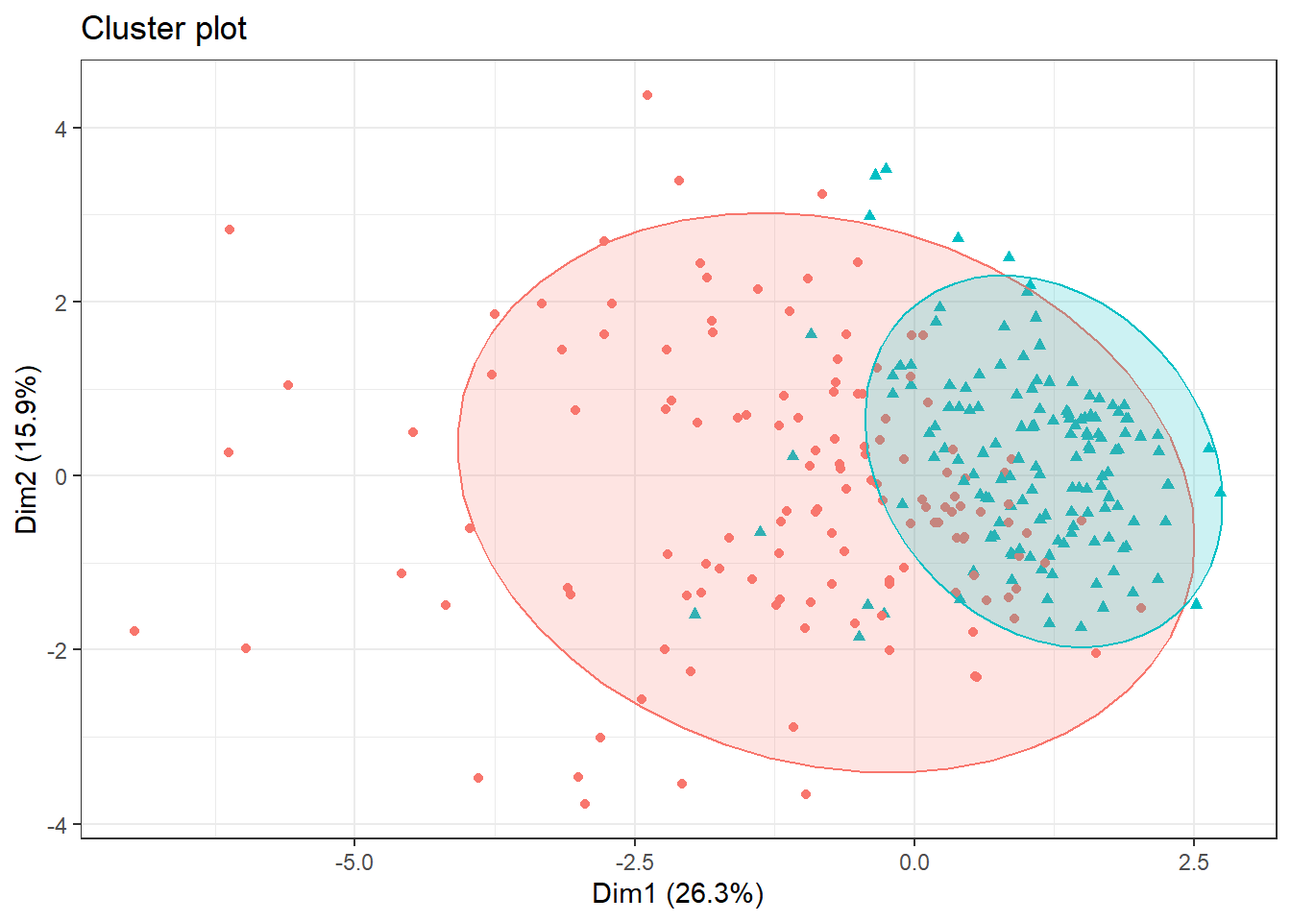
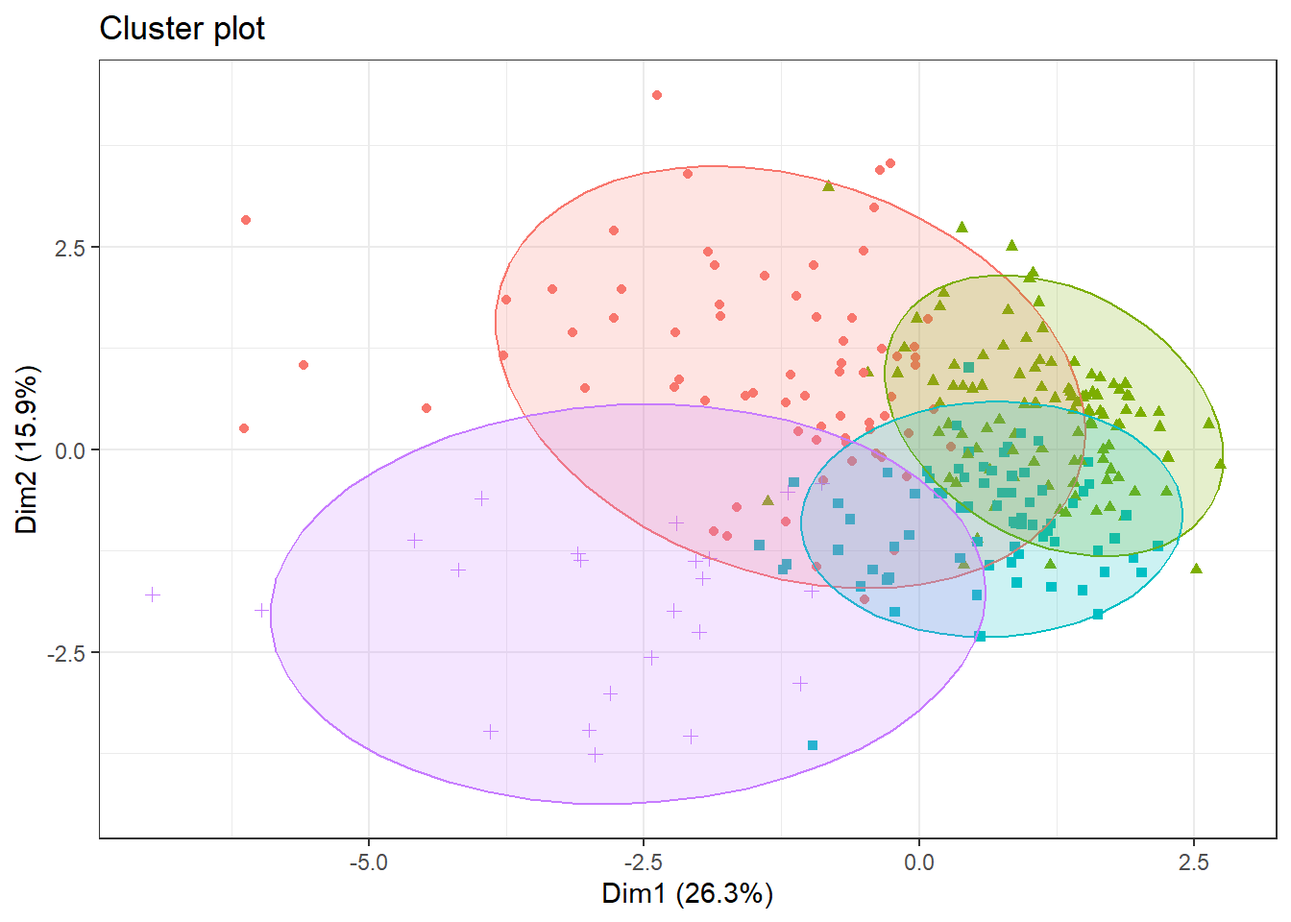
dendogramas 2

diff --git a/Entrega_Clustering.html b/Entrega_Clustering.html
@@ -451,24 +451,14 @@ W = 0.83366, p-value &lt; 2.2e-16</code></pre>
 <div class="cell">
 <div class="sourceCode cell-code" id="cb19"><pre class="sourceCode r code-with-copy"><code class="sourceCode r"><span id="cb19-1"><a href="#cb19-1" aria-hidden="true" tabindex="-1"></a><span class="co">#set.seed(2312)</span></span>
 <span id="cb19-2"><a href="#cb19-2" aria-hidden="true" tabindex="-1"></a>km_clusters <span class="ot">&lt;-</span> <span class="fu">kmeans</span>(<span class="at">x =</span> cX, <span class="at">centers =</span> <span class="dv">4</span>, <span class="at">nstart =</span> <span class="dv">30</span>)</span>
-<span id="cb19-3"><a href="#cb19-3" aria-hidden="true" tabindex="-1"></a>km_clusters<span class="sc">$</span>cluster</span></code><button title="Copy to Clipboard" class="code-copy-button"><i class="bi"></i></button></pre></div>
-<div class="cell-output cell-output-stdout">
-<pre><code>  [1] 3 2 3 3 4 4 4 4 3 4 3 4 2 4 3 1 4 3 4 3 1 2 4 1 1 1 2 3 2 2 3 4 2 4 3 4 2
- [38] 2 4 2 4 2 4 4 2 2 2 2 2 2 4 4 3 1 3 4 4 4 4 1 4 4 4 1 1 1 3 3 4 3 1 4 3 4
- [75] 4 1 4 4 4 4 3 3 4 3 3 4 4 3 4 4 3 4 4 3 4 4 4 4 3 3 4 4 4 1 4 4 1 3 4 4 4
-[112] 4 1 3 4 4 4 4 4 4 1 3 4 4 4 4 1 4 3 1 3 4 3 4 3 4 1 4 4 4 4 4 3 4 3 1 4 4
-[149] 4 4 4 4 4 4 4 4 4 1 4 3 1 3 4 1 4 1 4 4 3 4 4 4 4 4 4 4 4 4 3 4 4 4 4 4 1
-[186] 1 4 3 4 3 3 4 4 4 3 4 3 4 3 4 3 4 1 4 3 3 4 1 3 3 1 4 4 1 4 4 4 4 3 3 4 4
-[223] 4 4 4 3 3 4 4 3 4 4 3 3 3 4 4 4 4 4 4 4 4 4 4 1 4 4 4 4 4 3 4 3 4 4 4 3 1
-[260] 4 4 3 4 4 4 4 3 4 2 4 4 4 3 3 4 1</code></pre>
-</div>
+<span id="cb19-3"><a href="#cb19-3" aria-hidden="true" tabindex="-1"></a><span class="co"># km_clusters$cluster</span></span></code><button title="Copy to Clipboard" class="code-copy-button"><i class="bi"></i></button></pre></div>
 </div>
 <p>Ahora bien, representemos dichos clusters en el plano. Como nuestro número de variables (dimensionalidad) es mayor de 2, automáticamente realiza un PCA y representa las dos primeras componentes principales (Dim1 y Dim2).</p>
 <div class="cell">
-<div class="sourceCode cell-code" id="cb21"><pre class="sourceCode r code-with-copy"><code class="sourceCode r"><span id="cb21-1"><a href="#cb21-1" aria-hidden="true" tabindex="-1"></a><span class="fu">fviz_cluster</span>(<span class="at">object =</span> km_clusters, <span class="at">data =</span> cX, <span class="at">show.clust.cent =</span> <span class="cn">TRUE</span>, <span class="at">geom =</span><span class="st">"point"</span>,</span>
-<span id="cb21-2"><a href="#cb21-2" aria-hidden="true" tabindex="-1"></a> <span class="at">ellipse.type =</span> <span class="st">"euclid"</span>, <span class="at">star.plot =</span> <span class="cn">TRUE</span>, <span class="at">repel =</span> <span class="cn">TRUE</span>, <span class="at">palette =</span> <span class="fu">c</span>(<span class="st">"#FF7078"</span>, <span class="st">"#F39B4C"</span>, <span class="st">"#7FBFF5"</span>, <span class="st">"#A298E8"</span>)) <span class="sc">+</span></span>
-<span id="cb21-3"><a href="#cb21-3" aria-hidden="true" tabindex="-1"></a><span class="fu">theme_bw</span>() <span class="sc">+</span></span>
-<span id="cb21-4"><a href="#cb21-4" aria-hidden="true" tabindex="-1"></a><span class="fu">theme</span>(<span class="at">legend.position =</span> <span class="st">"none"</span>)</span></code><button title="Copy to Clipboard" class="code-copy-button"><i class="bi"></i></button></pre></div>
+<div class="sourceCode cell-code" id="cb20"><pre class="sourceCode r code-with-copy"><code class="sourceCode r"><span id="cb20-1"><a href="#cb20-1" aria-hidden="true" tabindex="-1"></a><span class="fu">fviz_cluster</span>(<span class="at">object =</span> km_clusters, <span class="at">data =</span> cX, <span class="at">show.clust.cent =</span> <span class="cn">TRUE</span>, <span class="at">geom =</span><span class="st">"point"</span>,</span>
+<span id="cb20-2"><a href="#cb20-2" aria-hidden="true" tabindex="-1"></a> <span class="at">ellipse.type =</span> <span class="st">"euclid"</span>, <span class="at">star.plot =</span> <span class="cn">TRUE</span>, <span class="at">repel =</span> <span class="cn">TRUE</span>, <span class="at">palette =</span> <span class="fu">c</span>(<span class="st">"#FF7078"</span>, <span class="st">"#F39B4C"</span>, <span class="st">"#7FBFF5"</span>, <span class="st">"#A298E8"</span>)) <span class="sc">+</span></span>
+<span id="cb20-3"><a href="#cb20-3" aria-hidden="true" tabindex="-1"></a><span class="fu">theme_bw</span>() <span class="sc">+</span></span>
+<span id="cb20-4"><a href="#cb20-4" aria-hidden="true" tabindex="-1"></a><span class="fu">theme</span>(<span class="at">legend.position =</span> <span class="st">"none"</span>)</span></code><button title="Copy to Clipboard" class="code-copy-button"><i class="bi"></i></button></pre></div>
 <div class="cell-output-display">
 <p><img src="Entrega_Clustering_files/figure-html/unnamed-chunk-20-1.png" class="img-fluid" width="672"></p>
 </div>
@@ -477,13 +467,13 @@ W = 0.83366, p-value &lt; 2.2e-16</code></pre>
 <p>Ahora bien, sería interesante ver si estos clusters corresponden a las fases de cirrosis segun la variable <code>stage</code>.</p>
 <p>Vamos a crear un data frame compuesto de 3 columnas: identificador del paciente, estado de la enfermedad y cluster al que pertenece.</p>
 <div class="cell">
-<div class="sourceCode cell-code" id="cb22"><pre class="sourceCode r code-with-copy"><code class="sourceCode r"><span id="cb22-1"><a href="#cb22-1" aria-hidden="true" tabindex="-1"></a>id_stage <span class="ot">=</span> datos <span class="sc">%&gt;%</span> </span>
-<span id="cb22-2"><a href="#cb22-2" aria-hidden="true" tabindex="-1"></a>  <span class="fu">select</span>(ID, Stage)</span>
-<span id="cb22-3"><a href="#cb22-3" aria-hidden="true" tabindex="-1"></a>Cluster <span class="ot">=</span> km_clusters<span class="sc">$</span>cluster <span class="sc">%&gt;%</span> <span class="fu">as.factor</span>()</span>
-<span id="cb22-4"><a href="#cb22-4" aria-hidden="true" tabindex="-1"></a></span>
-<span id="cb22-5"><a href="#cb22-5" aria-hidden="true" tabindex="-1"></a>tabla_cluster <span class="ot">=</span> <span class="fu">cbind</span>(id_stage, Cluster)</span>
-<span id="cb22-6"><a href="#cb22-6" aria-hidden="true" tabindex="-1"></a></span>
-<span id="cb22-7"><a href="#cb22-7" aria-hidden="true" tabindex="-1"></a><span class="fu">table</span>(<span class="at">x =</span> tabla_cluster[,<span class="fu">c</span>(<span class="dv">2</span>,<span class="dv">3</span>)])</span></code><button title="Copy to Clipboard" class="code-copy-button"><i class="bi"></i></button></pre></div>
+<div class="sourceCode cell-code" id="cb21"><pre class="sourceCode r code-with-copy"><code class="sourceCode r"><span id="cb21-1"><a href="#cb21-1" aria-hidden="true" tabindex="-1"></a>id_stage <span class="ot">=</span> datos <span class="sc">%&gt;%</span> </span>
+<span id="cb21-2"><a href="#cb21-2" aria-hidden="true" tabindex="-1"></a>  <span class="fu">select</span>(ID, Stage)</span>
+<span id="cb21-3"><a href="#cb21-3" aria-hidden="true" tabindex="-1"></a>Cluster <span class="ot">=</span> km_clusters<span class="sc">$</span>cluster <span class="sc">%&gt;%</span> <span class="fu">as.factor</span>()</span>
+<span id="cb21-4"><a href="#cb21-4" aria-hidden="true" tabindex="-1"></a></span>
+<span id="cb21-5"><a href="#cb21-5" aria-hidden="true" tabindex="-1"></a>tabla_cluster <span class="ot">=</span> <span class="fu">cbind</span>(id_stage, Cluster)</span>
+<span id="cb21-6"><a href="#cb21-6" aria-hidden="true" tabindex="-1"></a></span>
+<span id="cb21-7"><a href="#cb21-7" aria-hidden="true" tabindex="-1"></a><span class="fu">table</span>(<span class="at">x =</span> tabla_cluster[,<span class="fu">c</span>(<span class="dv">2</span>,<span class="dv">3</span>)])</span></code><button title="Copy to Clipboard" class="code-copy-button"><i class="bi"></i></button></pre></div>
 <div class="cell-output cell-output-stdout">
 <pre><code>     Cluster
 Stage  1  2  3  4
@@ -499,48 +489,58 @@ Stage  1  2  3  4
 <h2 class="anchored" data-anchor-id="k-medoids-pam">K-medoids (PAM)</h2>
 <p>En este caso, cada cluster está representado por una observación presente en el cluster (medoid), mientras que en K-means cada cluster está representado por su centroide, que se corresponde con el promedio de todas las observaciones del cluster pero con ninguna en particular. Vamos a utilizar la distancia de Manhattaan ya que es menos sensible a outliers.</p>
 <div class="cell">
-<div class="sourceCode cell-code" id="cb24"><pre class="sourceCode r code-with-copy"><code class="sourceCode r"><span id="cb24-1"><a href="#cb24-1" aria-hidden="true" tabindex="-1"></a><span class="fu">fviz_nbclust</span>(<span class="at">x =</span> cX, <span class="at">FUNcluster =</span> pam, <span class="at">method =</span> <span class="st">"wss"</span>,</span>
-<span id="cb24-2"><a href="#cb24-2" aria-hidden="true" tabindex="-1"></a> <span class="at">diss =</span> <span class="fu">dist</span>(datos, <span class="at">method =</span> <span class="st">"manhattan"</span>))</span></code><button title="Copy to Clipboard" class="code-copy-button"><i class="bi"></i></button></pre></div>
+<div class="sourceCode cell-code" id="cb23"><pre class="sourceCode r code-with-copy"><code class="sourceCode r"><span id="cb23-1"><a href="#cb23-1" aria-hidden="true" tabindex="-1"></a><span class="fu">fviz_nbclust</span>(<span class="at">x =</span> cX, <span class="at">FUNcluster =</span> pam, <span class="at">method =</span> <span class="st">"wss"</span>,</span>
+<span id="cb23-2"><a href="#cb23-2" aria-hidden="true" tabindex="-1"></a> <span class="at">diss =</span> <span class="fu">dist</span>(datos, <span class="at">method =</span> <span class="st">"manhattan"</span>))</span></code><button title="Copy to Clipboard" class="code-copy-button"><i class="bi"></i></button></pre></div>
 <div class="cell-output-display">
 <p><img src="Entrega_Clustering_files/figure-html/unnamed-chunk-22-1.png" class="img-fluid" width="672"></p>
 </div>
 </div>
 <p>Encontramos codos en <span class="math inline">\(k=2\)</span>, <span class="math inline">\(k=4\)</span> y uno muy pronunciado en <span class="math inline">\(k=6\)</span>. Para ver cual sería óptimo, como en el caso anterior, visualicemos otros métodos como el de la silueta i gap_stat.</p>
 <div class="cell">
-<div class="sourceCode cell-code" id="cb25"><pre class="sourceCode r code-with-copy"><code class="sourceCode r"><span id="cb25-1"><a href="#cb25-1" aria-hidden="true" tabindex="-1"></a><span class="fu">fviz_nbclust</span>(<span class="at">x =</span> cX, <span class="at">FUNcluster =</span> pam, <span class="at">method =</span> <span class="st">"silhouette"</span>,</span>
-<span id="cb25-2"><a href="#cb25-2" aria-hidden="true" tabindex="-1"></a> <span class="at">diss =</span> <span class="fu">dist</span>(datos, <span class="at">method =</span> <span class="st">"manhattan"</span>))</span></code><button title="Copy to Clipboard" class="code-copy-button"><i class="bi"></i></button></pre></div>
+<div class="sourceCode cell-code" id="cb24"><pre class="sourceCode r code-with-copy"><code class="sourceCode r"><span id="cb24-1"><a href="#cb24-1" aria-hidden="true" tabindex="-1"></a><span class="fu">fviz_nbclust</span>(<span class="at">x =</span> cX, <span class="at">FUNcluster =</span> pam, <span class="at">method =</span> <span class="st">"silhouette"</span>,</span>
+<span id="cb24-2"><a href="#cb24-2" aria-hidden="true" tabindex="-1"></a> <span class="at">diss =</span> <span class="fu">dist</span>(datos, <span class="at">method =</span> <span class="st">"manhattan"</span>))</span></code><button title="Copy to Clipboard" class="code-copy-button"><i class="bi"></i></button></pre></div>
 <div class="cell-output-display">
 <p><img src="Entrega_Clustering_files/figure-html/unnamed-chunk-23-1.png" class="img-fluid" width="672"></p>
 </div>
 </div>
 <div class="cell">
-<div class="sourceCode cell-code" id="cb26"><pre class="sourceCode r code-with-copy"><code class="sourceCode r"><span id="cb26-1"><a href="#cb26-1" aria-hidden="true" tabindex="-1"></a><span class="fu">fviz_nbclust</span>(<span class="at">x =</span> cX, <span class="at">FUNcluster =</span> pam, <span class="at">method =</span> <span class="st">"gap_stat"</span>,</span>
-<span id="cb26-2"><a href="#cb26-2" aria-hidden="true" tabindex="-1"></a> <span class="at">diss =</span> <span class="fu">dist</span>(datos, <span class="at">method =</span> <span class="st">"manhattan"</span>))</span></code><button title="Copy to Clipboard" class="code-copy-button"><i class="bi"></i></button></pre></div>
+<div class="sourceCode cell-code" id="cb25"><pre class="sourceCode r code-with-copy"><code class="sourceCode r"><span id="cb25-1"><a href="#cb25-1" aria-hidden="true" tabindex="-1"></a><span class="fu">fviz_nbclust</span>(<span class="at">x =</span> cX, <span class="at">FUNcluster =</span> pam, <span class="at">method =</span> <span class="st">"gap_stat"</span>,</span>
+<span id="cb25-2"><a href="#cb25-2" aria-hidden="true" tabindex="-1"></a> <span class="at">diss =</span> <span class="fu">dist</span>(datos, <span class="at">method =</span> <span class="st">"manhattan"</span>))</span></code><button title="Copy to Clipboard" class="code-copy-button"><i class="bi"></i></button></pre></div>
 <div class="cell-output-display">
 <p><img src="Entrega_Clustering_files/figure-html/unnamed-chunk-24-1.png" class="img-fluid" width="672"></p>
 </div>
 </div>
 <p>Estos dos métodos nos sugieren 2 clusters para realizar el análisis. Como en <code>kmeans</code>, podemos utilizar la misma función para corroborarlo con 30 índices, utilizando el método <code>median</code>, que es el más indicado para medoides:</p>
 <div class="cell" data-hash="Entrega_Clustering_cache/html/unnamed-chunk-25_dc3ffd97fe70c3b156efaff8d8ebb860">
-<div class="sourceCode cell-code" id="cb27"><pre class="sourceCode r code-with-copy"><code class="sourceCode r"><span id="cb27-1"><a href="#cb27-1" aria-hidden="true" tabindex="-1"></a>resnumclust2 <span class="ot">=</span> <span class="fu">NbClust</span>(<span class="at">data =</span> cX, <span class="at">distance =</span> <span class="st">"euclidean"</span>, <span class="at">min.nc =</span> <span class="dv">2</span>, <span class="at">max.nc =</span> <span class="dv">10</span>, </span>
-<span id="cb27-2"><a href="#cb27-2" aria-hidden="true" tabindex="-1"></a>                      <span class="at">method =</span> <span class="st">"median"</span>, <span class="at">index =</span> <span class="st">"alllong"</span>)</span></code><button title="Copy to Clipboard" class="code-copy-button"><i class="bi"></i></button></pre></div>
+<div class="sourceCode cell-code" id="cb26"><pre class="sourceCode r code-with-copy"><code class="sourceCode r"><span id="cb26-1"><a href="#cb26-1" aria-hidden="true" tabindex="-1"></a>resnumclust2 <span class="ot">=</span> <span class="fu">NbClust</span>(<span class="at">data =</span> cX, <span class="at">distance =</span> <span class="st">"euclidean"</span>, <span class="at">min.nc =</span> <span class="dv">2</span>, <span class="at">max.nc =</span> <span class="dv">10</span>, </span>
+<span id="cb26-2"><a href="#cb26-2" aria-hidden="true" tabindex="-1"></a>                      <span class="at">method =</span> <span class="st">"median"</span>, <span class="at">index =</span> <span class="st">"alllong"</span>)</span></code><button title="Copy to Clipboard" class="code-copy-button"><i class="bi"></i></button></pre></div>
 </div>
 <div class="cell" data-hash="Entrega_Clustering_cache/html/unnamed-chunk-26_385aad333e7238cc35c2706a90ac2fa3">
-<div class="sourceCode cell-code" id="cb28"><pre class="sourceCode r code-with-copy"><code class="sourceCode r"><span id="cb28-1"><a href="#cb28-1" aria-hidden="true" tabindex="-1"></a><span class="fu">fviz_nbclust</span>(resnumclust2)</span></code><button title="Copy to Clipboard" class="code-copy-button"><i class="bi"></i></button></pre></div>
+<div class="sourceCode cell-code" id="cb27"><pre class="sourceCode r code-with-copy"><code class="sourceCode r"><span id="cb27-1"><a href="#cb27-1" aria-hidden="true" tabindex="-1"></a><span class="fu">fviz_nbclust</span>(resnumclust2)</span></code><button title="Copy to Clipboard" class="code-copy-button"><i class="bi"></i></button></pre></div>
 </div>
 <p>Esta función nos sugiere escoger 2 clusters. De este modo, calculamos los clusters y los representamos.</p>
 <div class="cell">
-<div class="sourceCode cell-code" id="cb29"><pre class="sourceCode r code-with-copy"><code class="sourceCode r"><span id="cb29-1"><a href="#cb29-1" aria-hidden="true" tabindex="-1"></a>pam_clusters <span class="ot">&lt;-</span> <span class="fu">pam</span>(<span class="at">x =</span> cX, <span class="at">k =</span> <span class="dv">2</span>, <span class="at">metric =</span> <span class="st">"manhattan"</span>)</span>
-<span id="cb29-2"><a href="#cb29-2" aria-hidden="true" tabindex="-1"></a></span>
-<span id="cb29-3"><a href="#cb29-3" aria-hidden="true" tabindex="-1"></a><span class="fu">fviz_cluster</span>(<span class="at">object =</span> pam_clusters, <span class="at">data =</span> cX, <span class="at">ellipse.type =</span> <span class="st">"t"</span>, <span class="at">geom =</span> <span class="st">"point"</span>, </span>
-<span id="cb29-4"><a href="#cb29-4" aria-hidden="true" tabindex="-1"></a>             <span class="at">repel =</span><span class="cn">TRUE</span>) <span class="sc">+</span></span>
-<span id="cb29-5"><a href="#cb29-5" aria-hidden="true" tabindex="-1"></a>  <span class="fu">theme_bw</span>() <span class="sc">+</span> </span>
-<span id="cb29-6"><a href="#cb29-6" aria-hidden="true" tabindex="-1"></a>  <span class="fu">theme</span>(<span class="at">legend.position =</span> <span class="st">"none"</span>)</span></code><button title="Copy to Clipboard" class="code-copy-button"><i class="bi"></i></button></pre></div>
+<div class="sourceCode cell-code" id="cb28"><pre class="sourceCode r code-with-copy"><code class="sourceCode r"><span id="cb28-1"><a href="#cb28-1" aria-hidden="true" tabindex="-1"></a>pam_clusters <span class="ot">&lt;-</span> <span class="fu">pam</span>(<span class="at">x =</span> cX, <span class="at">k =</span> <span class="dv">2</span>, <span class="at">metric =</span> <span class="st">"manhattan"</span>)</span>
+<span id="cb28-2"><a href="#cb28-2" aria-hidden="true" tabindex="-1"></a></span>
+<span id="cb28-3"><a href="#cb28-3" aria-hidden="true" tabindex="-1"></a><span class="fu">fviz_cluster</span>(<span class="at">object =</span> pam_clusters, <span class="at">data =</span> cX, <span class="at">ellipse.type =</span> <span class="st">"t"</span>, <span class="at">geom =</span> <span class="st">"point"</span>, <span class="at">repel =</span><span class="cn">TRUE</span>) <span class="sc">+</span></span>
+<span id="cb28-4"><a href="#cb28-4" aria-hidden="true" tabindex="-1"></a>  <span class="fu">theme_bw</span>() <span class="sc">+</span> </span>
+<span id="cb28-5"><a href="#cb28-5" aria-hidden="true" tabindex="-1"></a>  <span class="fu">theme</span>(<span class="at">legend.position =</span> <span class="st">"none"</span>)</span></code><button title="Copy to Clipboard" class="code-copy-button"><i class="bi"></i></button></pre></div>
 <div class="cell-output-display">
 <p><img src="Entrega_Clustering_files/figure-html/unnamed-chunk-27-1.png" class="img-fluid" width="672"></p>
 </div>
 </div>
 <p>Estan bastante solapados, puede deberse a la proyección a dos dimensiones.</p>
+<p>Realicemos kmedoids con k=4 para comparar:</p>
+<div class="cell">
+<div class="sourceCode cell-code" id="cb29"><pre class="sourceCode r code-with-copy"><code class="sourceCode r"><span id="cb29-1"><a href="#cb29-1" aria-hidden="true" tabindex="-1"></a>pam_clusters_ <span class="ot">&lt;-</span> <span class="fu">pam</span>(<span class="at">x =</span> cX, <span class="at">k =</span> <span class="dv">4</span>, <span class="at">metric =</span> <span class="st">"manhattan"</span>)</span>
+<span id="cb29-2"><a href="#cb29-2" aria-hidden="true" tabindex="-1"></a></span>
+<span id="cb29-3"><a href="#cb29-3" aria-hidden="true" tabindex="-1"></a><span class="fu">fviz_cluster</span>(<span class="at">object =</span> pam_clusters_, <span class="at">data =</span> cX, <span class="at">ellipse.type =</span> <span class="st">"t"</span>, <span class="at">geom =</span> <span class="st">"point"</span>, <span class="at">repel =</span><span class="cn">TRUE</span>) <span class="sc">+</span></span>
+<span id="cb29-4"><a href="#cb29-4" aria-hidden="true" tabindex="-1"></a>  <span class="fu">theme_bw</span>() <span class="sc">+</span> </span>
+<span id="cb29-5"><a href="#cb29-5" aria-hidden="true" tabindex="-1"></a>  <span class="fu">theme</span>(<span class="at">legend.position =</span> <span class="st">"none"</span>)</span></code><button title="Copy to Clipboard" class="code-copy-button"><i class="bi"></i></button></pre></div>
+<div class="cell-output-display">
+<p><img src="Entrega_Clustering_files/figure-html/unnamed-chunk-28-1.png" class="img-fluid" width="672"></p>
+</div>
+</div>
 </section>
 <section id="clara" class="level2">
 <h2 class="anchored" data-anchor-id="clara">Clara</h2>
@@ -554,11 +554,8 @@ Stage  1  2  3  4
 <li><p><strong>Single or Minimum:</strong> Se calcula la distancia entre todos los posibles pares formados por una observación del cluster A y una del cluster B. La menor de todas ellas se selecciona como la distancia entre los dos clusters.</p></li>
 <li><p><strong>Average:</strong> Se calcula la distancia entre todos los posibles pares formados por una observación del cluster A y una del cluster B. El valor promedio de todas ellas se selecciona como la distancia entre los dos clusters.</p></li>
 <li><p><strong>Centroid:</strong> Se calcula el centroide de cada uno de los clusters y se selecciona la distancia entre ellos como la distancia entre los dos clusters.</p></li>
-<li><p><strong>Ward:</strong> Se trata de un método general. La selección del par de clusters que se combinan en cada paso del agglomerative hierarchical clustering se basa en el valor óptimo de una función objetivo, pudiendo ser esta última cualquier función definida por el analista. Un caso particular es <em>Ward’s minimum variance</em>, en cada paso se identifican aquellos 2 clusters cuya fusión conlleva menor incremento de la varianza total intra-cluster.</p></li>
-</ul>
-<p>Realicemos unos cuantos dendogramas:</p>
-<ul>
-<li>Dendograma para 4 clusters con distancia entre clusters <em>Complete or Maximum</em>:</li>
+<li><p><strong>Ward:</strong> Se trata de un método general. La selección del par de clusters que se combinan en cada paso del <em>agglomerative hierarchical clustering</em> se basa en el valor óptimo de una función objetivo, pudiendo ser esta última cualquier función definida por el analista. Un caso particular es <em>Ward’s minimum variance</em>, en cada paso se identifican aquellos 2 clusters cuya fusión conlleva menor incremento de la varianza total intra-cluster.</p></li>
+<li><p>Dendograma para 4 clusters con distancia entre clusters <em>Complete or Maximum</em>:</p></li>
 </ul>
 <div class="cell" data-hash="Entrega_Clustering_cache/html/unnamed-chunk-29_f4c3eab3764994594a459f1aee1d9d6b">
 <div class="sourceCode cell-code" id="cb30"><pre class="sourceCode r code-with-copy"><code class="sourceCode r"><span id="cb30-1"><a href="#cb30-1" aria-hidden="true" tabindex="-1"></a>hc_completo <span class="ot">&lt;-</span> mat_dist <span class="sc">%&gt;%</span></span>
@@ -602,13 +599,19 @@ Stage  1  2  3  4
 <ul>
 <li>Dendograma para 4 clusters con distancia entre clusters <em>Ward’s minimum variance</em>:</li>
 </ul>
-<div class="cell" data-hash="Entrega_Clustering_cache/html/unnamed-chunk-32_a74d1874fa0458a54290a734e7b252d2">
+<div class="cell" data-hash="Entrega_Clustering_cache/html/unnamed-chunk-32_d971490a617641e8b26ecd574465531f">
 <div class="sourceCode cell-code" id="cb33"><pre class="sourceCode r code-with-copy"><code class="sourceCode r"><span id="cb33-1"><a href="#cb33-1" aria-hidden="true" tabindex="-1"></a>hc_ward_D2 <span class="ot">&lt;-</span> mat_dist <span class="sc">%&gt;%</span></span>
-<span id="cb33-2"><a href="#cb33-2" aria-hidden="true" tabindex="-1"></a>  <span class="fu">hclust</span>(<span class="at">method =</span> <span class="st">"ward.D2"</span>) <span class="co"># Average</span></span>
+<span id="cb33-2"><a href="#cb33-2" aria-hidden="true" tabindex="-1"></a>  <span class="fu">hclust</span>(<span class="at">method =</span> <span class="st">"ward.D2"</span>) <span class="co"># Ward's minimum variance</span></span>
 <span id="cb33-3"><a href="#cb33-3" aria-hidden="true" tabindex="-1"></a></span>
 <span id="cb33-4"><a href="#cb33-4" aria-hidden="true" tabindex="-1"></a><span class="fu">fviz_dend</span>(<span class="at">x =</span> hc_ward_D2, <span class="at">k =</span> <span class="dv">4</span>, <span class="at">cex =</span> <span class="fl">0.6</span>) <span class="sc">+</span></span>
 <span id="cb33-5"><a href="#cb33-5" aria-hidden="true" tabindex="-1"></a> <span class="fu">geom_hline</span>(<span class="at">yintercept =</span> <span class="dv">25</span>, <span class="at">linetype =</span> <span class="st">"dashed"</span>)<span class="sc">+</span></span>
 <span id="cb33-6"><a href="#cb33-6" aria-hidden="true" tabindex="-1"></a>  <span class="fu">geom_hline</span>(<span class="at">yintercept =</span> <span class="dv">18</span>, <span class="at">linetype =</span> <span class="st">"dashed"</span>)</span></code><button title="Copy to Clipboard" class="code-copy-button"><i class="bi"></i></button></pre></div>
+<div class="cell-output cell-output-stderr">
+<pre><code>Warning: The `&lt;scale&gt;` argument of `guides()` cannot be `FALSE`. Use "none" instead as
+of ggplot2 3.3.4.
+ℹ The deprecated feature was likely used in the factoextra package.
+  Please report the issue at &lt;https://github.com/kassambara/factoextra/issues&gt;.</code></pre>
+</div>
 <div class="cell-output-display">
 <p><img src="Entrega_Clustering_files/figure-html/unnamed-chunk-32-1.png" class="img-fluid" width="672"></p>
 </div>
@@ -618,13 +621,35 @@ Stage  1  2  3  4
 <li><p>Observamos que en nuestros datos los clusters que se forman dependen mucho de la distancia entre clusters que se escoja. Esto puede indicar que los datos no esten distribuidos en grupos bien diferenciados.</p></li>
 <li><p>Observamos que si cortamos más arriba el dendograma (la línea más alta), podemos ver cuales son los clusters que se juntan si quisiéramos solo 2 clusters.</p></li>
 </ul>
+<p>Una vez calculados los dendogramas, hay que comprobar que la estructura preserva bien las distancias originales entre las observaciones. Para hacerlo usemos el coeficiente de correlación entre las distancias <em>cophenetic</em> del dendrograma y la matriz de distancias original. Cuanto más cercano a 1 sea el valor, mejor refleja el dendograma las distancias originales.</p>
+<div class="cell">
+<div class="sourceCode cell-code" id="cb35"><pre class="sourceCode r code-with-copy"><code class="sourceCode r"><span id="cb35-1"><a href="#cb35-1" aria-hidden="true" tabindex="-1"></a><span class="fu">cor</span>(<span class="at">x =</span> mat_dist, <span class="fu">cophenetic</span>(hc_completo))</span></code><button title="Copy to Clipboard" class="code-copy-button"><i class="bi"></i></button></pre></div>
+<div class="cell-output cell-output-stdout">
+<pre><code>[1] 0.6545671</code></pre>
+</div>
+<div class="sourceCode cell-code" id="cb37"><pre class="sourceCode r code-with-copy"><code class="sourceCode r"><span id="cb37-1"><a href="#cb37-1" aria-hidden="true" tabindex="-1"></a><span class="fu">cor</span>(<span class="at">x =</span> mat_dist, <span class="fu">cophenetic</span>(hc_single))</span></code><button title="Copy to Clipboard" class="code-copy-button"><i class="bi"></i></button></pre></div>
+<div class="cell-output cell-output-stdout">
+<pre><code>[1] 0.8451853</code></pre>
+</div>
+<div class="sourceCode cell-code" id="cb39"><pre class="sourceCode r code-with-copy"><code class="sourceCode r"><span id="cb39-1"><a href="#cb39-1" aria-hidden="true" tabindex="-1"></a><span class="fu">cor</span>(<span class="at">x =</span> mat_dist, <span class="fu">cophenetic</span>(hc_average))</span></code><button title="Copy to Clipboard" class="code-copy-button"><i class="bi"></i></button></pre></div>
+<div class="cell-output cell-output-stdout">
+<pre><code>[1] 0.8300136</code></pre>
+</div>
+<div class="sourceCode cell-code" id="cb41"><pre class="sourceCode r code-with-copy"><code class="sourceCode r"><span id="cb41-1"><a href="#cb41-1" aria-hidden="true" tabindex="-1"></a><span class="fu">cor</span>(<span class="at">x =</span> mat_dist, <span class="fu">cophenetic</span>(hc_ward_D2))</span></code><button title="Copy to Clipboard" class="code-copy-button"><i class="bi"></i></button></pre></div>
+<div class="cell-output cell-output-stdout">
+<pre><code>[1] 0.5109195</code></pre>
+</div>
+</div>
+<ul>
+<li>Observamos que las distancias <em>Single or Minimum</em> y <em>Average</em> preservan mejor las distancias entre observaciones, en cambio <em>Ward’s minimum variance</em> en nustro caso no es recomendable usarla.</li>
+</ul>
 </section>
 </section>
 <section id="análisis-de-componentes-principales" class="level1">
 <h1>Análisis de Componentes Principales</h1>
 <p>Calculamos las componentes principales con el comando <code>prcomp</code> utilizando nuestro dataset, sin escalar los datos ya que están todos en la misma escala. Por último, los consideramos centrados en el 0.</p>
 <div class="cell">
-<div class="sourceCode cell-code" id="cb34"><pre class="sourceCode r code-with-copy"><code class="sourceCode r"><span id="cb34-1"><a href="#cb34-1" aria-hidden="true" tabindex="-1"></a>datos.acp<span class="ot">=</span><span class="fu">prcomp</span>(cX, <span class="at">scale =</span> <span class="cn">FALSE</span>, <span class="at">center =</span> <span class="cn">FALSE</span>)</span></code><button title="Copy to Clipboard" class="code-copy-button"><i class="bi"></i></button></pre></div>
+<div class="sourceCode cell-code" id="cb43"><pre class="sourceCode r code-with-copy"><code class="sourceCode r"><span id="cb43-1"><a href="#cb43-1" aria-hidden="true" tabindex="-1"></a>datos.acp<span class="ot">=</span><span class="fu">prcomp</span>(cX, <span class="at">scale =</span> <span class="cn">FALSE</span>, <span class="at">center =</span> <span class="cn">FALSE</span>)</span></code><button title="Copy to Clipboard" class="code-copy-button"><i class="bi"></i></button></pre></div>
 </div>
 <p>Los valores propios muestran el porcentaje de varianza explicada por cada componente principal.</p>
 <div class="cell">
